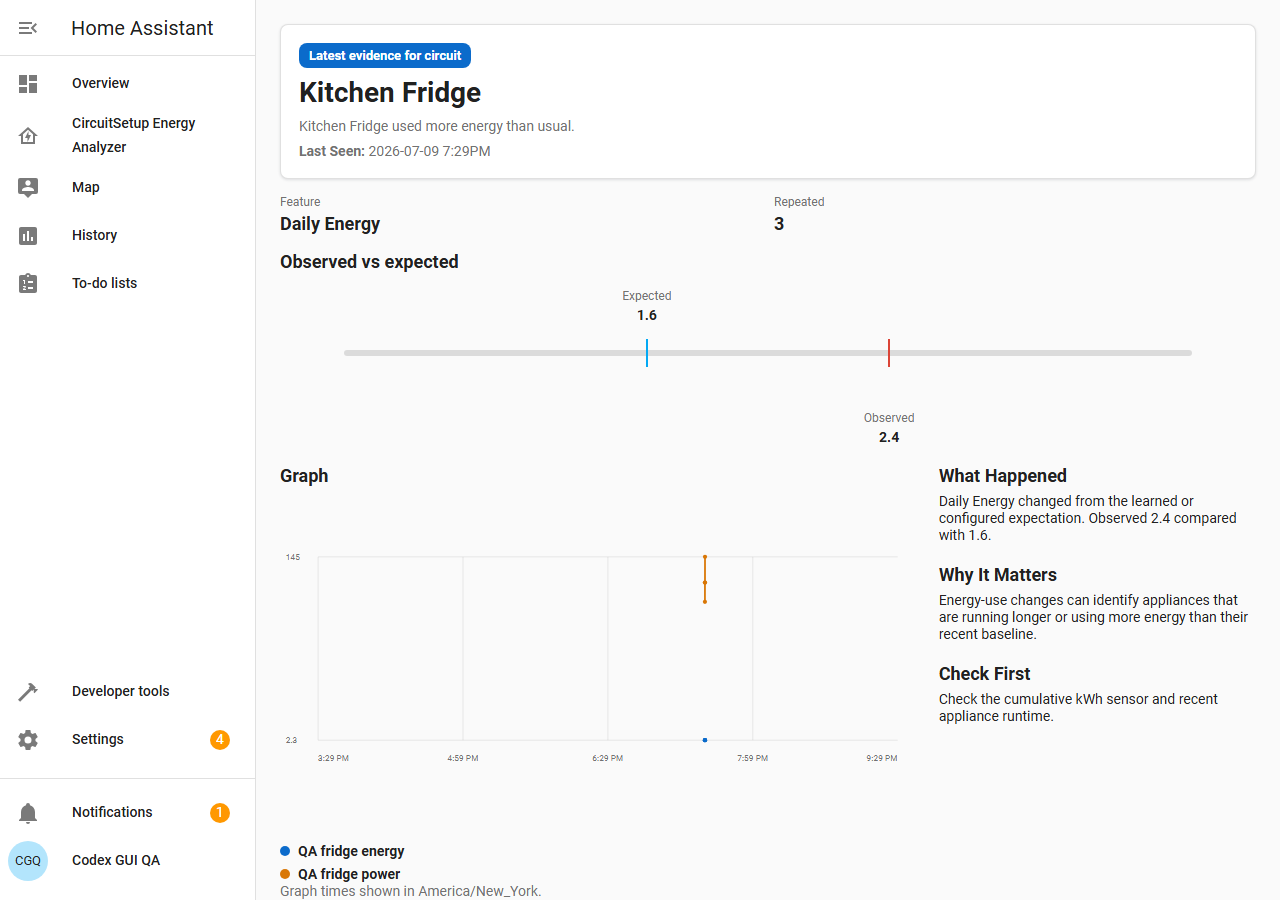
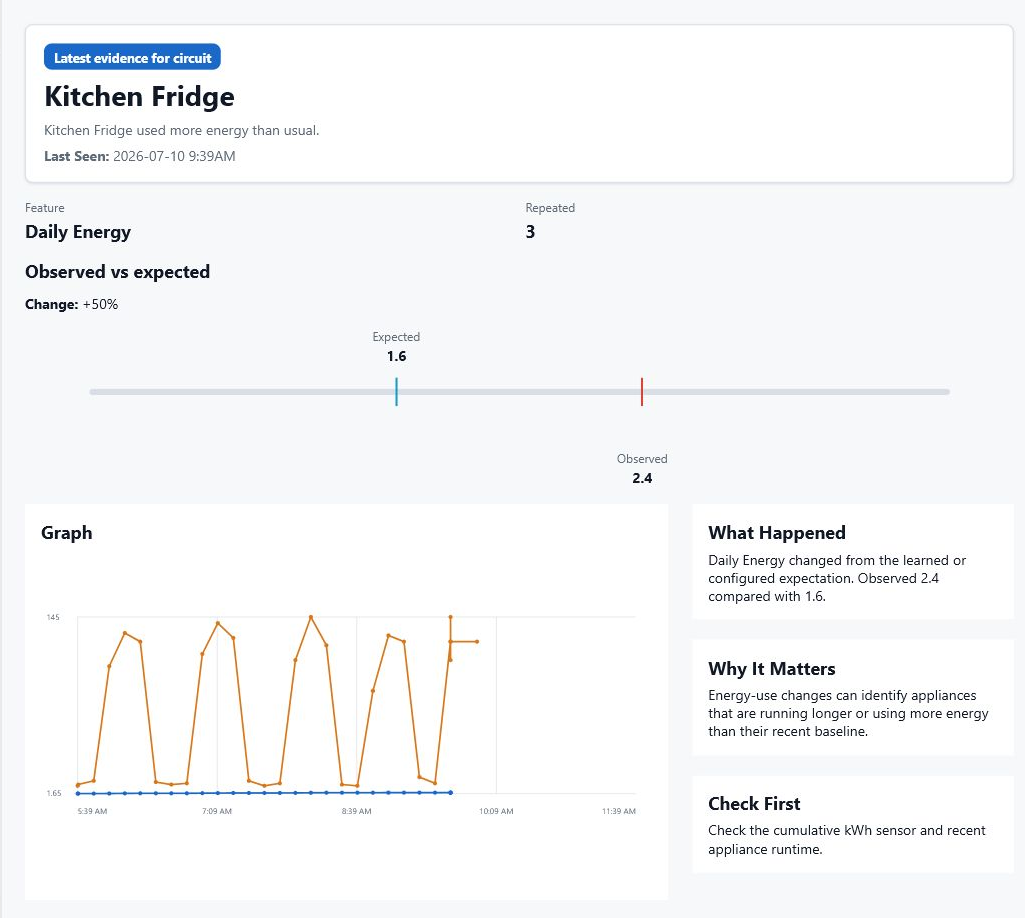
style: clarify evidence graph surfaces

diff --git a/custom_components/circuitsetup_energy_analyzer/frontend/energy-analyzer-panel.js b/custom_components/circuitsetup_energy_analyzer/frontend/energy-analyzer-panel.js
@@ -1695,6 +1695,13 @@ class CircuitSetupEnergyAnalyzerPanel extends HTMLElement {
           display: grid;
           gap: 6px;
         }
+        [data-evidence-graph],
+        .nilm-graph-section,
+        .evidence-explanation section,
+        .legend {
+          background: var(--card-background-color, #fff);
+          padding: 16px;
+        }
         .comparison-scale {
           min-height: 160px;
           margin: 4px 64px 0;

diff --git a/tests/test_user_facing_text.py b/tests/test_user_facing_text.py
@@ -4456,6 +4456,26 @@ def test_alert_evidence_informational_metrics_are_scoped_and_unframed() -> None:
     global_style = asset[global_start : asset.index("}", global_start)]
     assert "border: 1px solid" in global_style
     assert "background: var(--secondary-background-color" in global_style
+
+
+def test_evidence_visual_blocks_use_white_card_surfaces() -> None:
+    asset = PANEL_ASSET.read_text(encoding="utf-8")
+    surface_rule = re.search(
+        r"\[data-evidence-graph\],\s*"
+        r"\.nilm-graph-section,\s*"
+        r"\.evidence-explanation section,\s*"
+        r"\.legend\s*\{(?P<body>.*?)\}",
+        asset,
+        re.DOTALL,
+    )
+
+    assert surface_rule is not None
+    assert "background: var(--card-background-color, #fff);" in surface_rule.group("body")
+    assert "padding: 16px;" in surface_rule.group("body")
+    assert "border:" not in surface_rule.group("body")
+    assert "box-shadow:" not in surface_rule.group("body")
+
+
 def test_nilm_interval_action_contracts() -> None:
     _run_panel_node_script(
         """

diff --git a/custom_components/circuitsetup_energy_analyzer/panel.py b/custom_components/circuitsetup_energy_analyzer/panel.py
@@ -112,7 +112,7 @@ NILM_SIGNATURE_PANEL_FIELDS = (
 PANEL_ELEMENT_NAME = "circuitsetup-energy-analyzer-panel"
 STATIC_URL_PATH = "/circuitsetup_energy_analyzer_static"
 PANEL_MODULE_NAME = "energy-analyzer-panel.js"
-PANEL_MODULE_VERSION = "20260710-2"
+PANEL_MODULE_VERSION = "20260710-3"
 EVIDENCE_API_PATH = f"/api/{DOMAIN}/alert_evidence"
 APPLIANCE_DETAIL_API_PATH = f"/api/{DOMAIN}/appliance_detail"
 SETUP_HEALTH_API_PATH = f"/api/{DOMAIN}/setup_health"
